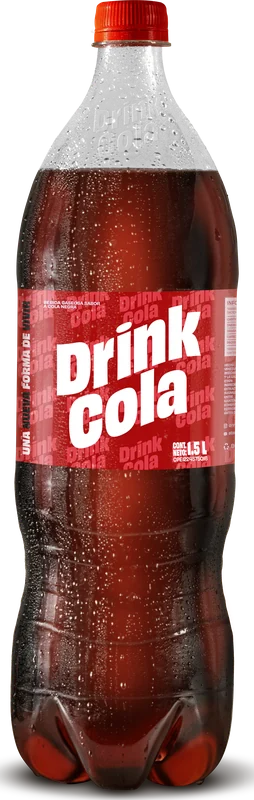
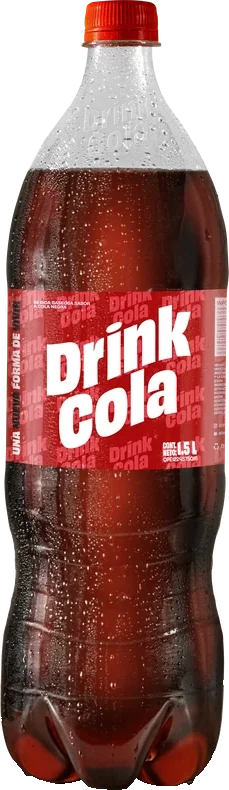
Correcciones del cliente (DWIJ-95 a DWIJ-98): sin naranja, CTA solo al formulario, botellas sin círculo y slider sin titulares de producto
- DWIJ-95: se retira el naranja de la paleta y del CSS (círculos y puntos decorativos fuera;
  asteriscos y foco en azul). La diapositiva de Frugy pasa al verde de su logo.
- DWIJ-96: el cierre de distribuidores, la diapositiva de distribuidores y la ficha de producto
  quedan sin teléfono ni botón de WhatsApp de ventas; solo el botón al formulario.
- DWIJ-97: tarjetas, ficha y galería sin círculo de color detrás de las botellas; se limpia la
  sombra pegada en la base de Frugy Mango y Drink Cola 1.5 L (quitar_sombra en el optimizador).
- DWIJ-98: Drink Cola y Frugy sin «Refresco de cola» / «Bebidas saborizadas a frutas»; el logo es
  el titular (H2 con texto alternativo) y slider.js lo usa como nombre de la diapositiva.
- Contenido versión 19.

diff --git a/wp-content/themes/industrias-jau/assets/css/tema.css b/wp-content/themes/industrias-jau/assets/css/tema.css
@@ -6,7 +6,6 @@
 
 :root {
 	--jau-primary: var(--wp--preset--color--primary);
-	--jau-accent: var(--wp--preset--color--accent);
 	--jau-ink: var(--wp--preset--color--ink);
 	--jau-ink-2: var(--wp--preset--color--ink-2);
 	--jau-muted: var(--wp--preset--color--muted);
@@ -31,7 +30,9 @@ body { overflow-x: clip; }
 @keyframes jauAIn { from { opacity: 0; transform: translateY(12px); } to { opacity: 1; transform: none; } }
 @keyframes jauAFade { from { opacity: 0; } to { opacity: 1; } }
 
-:focus-visible { outline: 2px solid var(--jau-accent); outline-offset: 2px; }
+:focus-visible { outline: 2px solid var(--jau-primary); outline-offset: 2px; }
+/* Sobre fondos de color (slider, cierre, banners, footer) el foco va en blanco. Sin naranja (DWIJ-95). */
+:is(.jau-slide, .jau-cierre, .jau-dark, .jau-banner, .jau-footer, .has-primary-background-color) :focus-visible { outline-color: #fff; }
 
 /* --------------------------------------------------------------------------
    Marcador «por confirmar» (DWIJ-1): se muestra u oculta en theme.json → custom.pc-display
@@ -435,14 +436,12 @@ header.wp-block-template-part,
 .jau-producto .wp-block-post-featured-image {
 	margin: 0;
 	aspect-ratio: 1 / 1;
-	background: radial-gradient(circle closest-side at 50% 52%, var(--jau-tinte, #EEF0F4) 0 70%, transparent 71%), var(--jau-white);
+	background: var(--jau-white);
 	border-bottom: 1px solid var(--jau-line);
 	display: grid;
 	place-items: center;
 }
 .jau-producto .wp-block-post-featured-image img { width: 100%; height: 100%; object-fit: contain; padding: 9% 0; filter: drop-shadow(0 10px 12px rgba(20, 24, 30, .18)); }
-.marca-frugy { --jau-tinte: #FDEBCB; }
-.marca-drink-cola { --jau-tinte: #F6DADA; }
 .jau-q-destacados .wp-block-post-template,
 .jau-q-relacionados .wp-block-post-template { grid-template-columns: repeat(auto-fit, minmax(min(100%, 230px), 1fr)); }
 .jau-producto .wp-block-post-featured-image a { display: block; width: 100%; height: 100%; }
@@ -510,7 +509,7 @@ header.wp-block-template-part,
 	border: 1px solid var(--jau-line);
 	border-radius: 14px;
 	overflow: hidden;
-	background: radial-gradient(circle closest-side at 50% 52%, var(--jau-tinte, #EEF0F4) 0 72%, transparent 73%), var(--jau-white);
+	background: var(--jau-white);
 }
 .jau-ficha__foto .wp-block-post-featured-image img { width: 100%; height: 100%; object-fit: contain; padding: 8% 0; filter: drop-shadow(0 16px 18px rgba(20, 24, 30, .2)); }
 .jau-ficha__info > * { margin-block: 0 !important; }
@@ -527,19 +526,6 @@ header.wp-block-template-part,
    Bloque de cierre «Quiero ser distribuidor» (DWIJ-29)
    -------------------------------------------------------------------------- */
 .jau-cierre { position: relative; overflow: hidden; border-radius: var(--jau-r-lg); }
-.jau-cierre::before {
-	content: "";
-	position: absolute;
-	right: -60px;
-	top: -60px;
-	width: 240px;
-	height: 240px;
-	border-radius: 50%;
-	background: var(--jau-accent);
-	opacity: .9;
-	pointer-events: none;
-}
-.jau-cierre > * { position: relative; }
 .jau-cierre .jau-cierre__texto { max-width: 620px; }
 .jau-cierre .jau-cierre__texto p { font-size: 17px; opacity: .92; }
 
@@ -727,7 +713,7 @@ header.wp-block-template-part,
 	.jau-contacto__cols .jau-form__campo--ancho,
 	.jau-contacto__cols .jau-form__campo--ancho textarea { flex: 1 1 auto; }
 }
-.jau-form__req { color: var(--jau-accent); }
+.jau-form__req { color: var(--jau-primary); }
 .jau-form input, .jau-form select, .jau-form textarea {
 	width: 100%;
 	font: inherit;
@@ -966,8 +952,8 @@ header.wp-block-template-part,
 /* Datos sin cargar: no se muestran (sin marcadores «por confirmar») */
 .jau-pc { display: none !important; }
 
-/* Galerías de la ficha: botellas sobre círculo de color de la marca */
-.jau-galeria-botellas figure { background: radial-gradient(circle closest-side at 50% 52%, var(--jau-tinte, #EEF0F4) 0 72%, transparent 73%), var(--jau-white); padding: 20px 0 8px; }
+/* Galerías de la ficha: botellas sobre fondo limpio (sin círculo de color, DWIJ-97) */
+.jau-galeria-botellas figure { background: var(--jau-white); padding: 20px 0 8px; }
 .jau-galeria-botellas img { max-height: 360px; width: auto !important; margin-inline: auto; filter: drop-shadow(0 14px 16px rgba(20, 24, 30, .2)); }
 .jau-galeria-botellas figcaption { position: static !important; background: none !important; color: var(--jau-ink) !important; font-weight: 600; text-align: center; padding: 8px 0 0 !important; }
 .jau-ficha__contenido .jau-fotos figure { border: 0; background: none; }
@@ -1368,15 +1354,10 @@ header.wp-block-template-part,
 /* Formularios: horario de atención bajo los campos, con ícono y en negrita. */
 .jau-form__nota { display: inline-flex; align-items: flex-start; gap: 8px; margin: 0; color: var(--jau-ink); font-size: 15px; line-height: 1.4; }
 .jau-form__nota svg { flex: none; margin-top: 1px; color: var(--jau-primary); }
-@media (max-width: 1000px) {
-	.jau-maquila-contacto__cabecera::before { width: 150px; height: 150px; right: -60px; top: -60px; }
-	.jau-maquila-contacto__cabecera > * { max-width: calc(100% - 70px); }
-}
 
 /* Inicio › JAU Maquila: escena con botellas (gaseosa y saborizada) sobre el círculo azul, las dos
    soluciones como etiquetas flotantes y las razones como lista con ✓. */
 .jau-escena--maquila { --jau-circulo: var(--jau-primary); max-width: 520px; height: clamp(380px, 36vw, 480px); }
-.jau-escena--maquila::after { content: ""; position: absolute; z-index: -1; top: 7%; right: 9%; width: 21%; aspect-ratio: 1 / 1; border-radius: 50%; background: var(--jau-accent); }
 .jau-escena--maquila .jau-botellas { height: 90%; padding-bottom: 6%; }
 .jau-escena__etiqueta {
 	position: absolute;
@@ -1412,12 +1393,11 @@ header.wp-block-template-part,
 }
 
 /* Animación de la escena de JAU Maquila (escenas.js agrega .jau-anima y, al verse, .is-visible):
-   el círculo crece, las botellas suben, el punto naranja aparece y las etiquetas entran por los
+   el círculo crece, las botellas suben y las etiquetas entran por los
    lados; después las botellas y las etiquetas flotan suavemente. */
 @media (prefers-reduced-motion: no-preference) {
 	/* Estado inicial (sin transición: se oculta al instante, sin parpadeo). */
 	.jau-escena--maquila.jau-anima::before { opacity: 0; transform: translate(-50%, -50%) scale(.8); }
-	.jau-escena--maquila.jau-anima::after { transform: scale(0); }
 	.jau-escena--maquila.jau-anima .jau-botellas > figure { opacity: 0; transform: translateY(48px); }
 	.jau-escena--maquila.jau-anima .jau-escena__etiqueta { opacity: 0; }
 	.jau-escena--maquila.jau-anima .jau-escena__etiqueta--arriba { transform: translateX(-28px); }
@@ -1425,7 +1405,6 @@ header.wp-block-template-part,
 
 	/* Entrada al verse en pantalla. */
 	.jau-escena--maquila.jau-anima.is-visible::before { opacity: 1; transform: translate(-50%, -50%) scale(1); transition: opacity .6s ease, transform .9s cubic-bezier(.2, .8, .2, 1); }
-	.jau-escena--maquila.jau-anima.is-visible::after { transform: scale(1); transition: transform .7s cubic-bezier(.34, 1.56, .64, 1) .5s; animation: jauLatir 6s ease-in-out 1.4s infinite; }
 	.jau-escena--maquila.jau-anima.is-visible .jau-botellas > figure { opacity: 1; transform: none; transition: opacity .6s ease .2s, transform .9s cubic-bezier(.2, .8, .2, 1) .2s; }
 	.jau-escena--maquila.jau-anima.is-visible .jau-botellas > figure:nth-child(2) { transition-delay: .38s; }
 	.jau-escena--maquila.jau-anima.is-visible .jau-escena__etiqueta { opacity: 1; transform: none; transition: opacity .5s ease .7s, transform .7s cubic-bezier(.2, .8, .2, 1) .7s; }
@@ -1439,7 +1418,6 @@ header.wp-block-template-part,
 }
 @keyframes jauFlotar { 0%, 100% { transform: translateY(0); } 50% { transform: translateY(-10px); } }
 @keyframes jauFlotarSuave { 0%, 100% { transform: translateY(0); } 50% { transform: translateY(-6px); } }
-@keyframes jauLatir { 0%, 100% { transform: scale(1); } 50% { transform: scale(1.08); } }
 
 /* Razones de JAU Maquila desplegables (desplegables.js agrega .es-desplegable): solo el título a la
    altura del ícono y una flecha; la descripción se abre con hover o clic. */
@@ -1527,7 +1505,6 @@ header.wp-block-template-part,
 /* «Contáctanos» de JAU Maquila en teléfonos: texto más corto y más chico (se oculta la segunda parte
    de la frase, marcada con .jau-solo-escritorio). */
 @media (max-width: 600px) {
-	.jau-maquila-contacto__cabecera::before { width: 120px; height: 120px; right: -48px; top: -52px; }
 	.jau-maquila-contacto__cabecera > p { max-width: none; font-size: 16px; line-height: 1.5; }
 	.jau-solo-escritorio { display: none; }
 }
@@ -1542,7 +1519,7 @@ header.wp-block-template-part,
 
 /* Sobre nosotros › «Nuestra historia» (DWIJ-93, texto del cliente del 25/11/2026): primer bloque, en una
    franja clara. A la izquierda el título, el origen como entrada y el resto como línea de tiempo
-   discreta (puntos azules; el de «Hoy» en naranja). A la derecha, la foto de ambiente sobre el
+   discreta (puntos azules; el de «Hoy», relleno). A la derecha, la foto de ambiente sobre el
    círculo azul de la marca con el dato «2023 · Maracaibo, Venezuela», como las escenas del sitio. */
 /* Si la página arranca con una franja de color a todo el ancho, va pegada al banner (sin la
    línea clara de 16px que queda entre ambos). */
@@ -1563,7 +1540,7 @@ header.wp-block-template-part,
 	border-radius: 50%;
 	background: #fff;
 }
-.jau-historia__linea > p:last-child::before { border-color: var(--jau-accent); background: var(--jau-accent); }
+.jau-historia__linea > p:last-child::before { background: var(--jau-primary); }
 /* Tramo de línea de cada punto al siguiente (el espacio entre párrafos es de 24px). */
 .jau-historia__linea > p:not(:last-child)::after {
 	content: "";
@@ -1574,10 +1551,9 @@ header.wp-block-template-part,
 	width: 2px;
 	background: rgba(48, 64, 110, .22);
 }
-/* Escena: foto vertical sobre el círculo azul, punto naranja y el dato flotante. */
+/* Escena: foto vertical sobre el círculo azul y el dato flotante. */
 .jau-escena--historia { --jau-circulo: var(--jau-primary); max-width: 460px; height: clamp(420px, 40vw, 540px); }
 .jau-escena--historia::before { width: min(100%, 440px); }
-.jau-escena--historia::after { content: ""; position: absolute; z-index: -1; top: 6%; right: 4%; width: 19%; aspect-ratio: 1 / 1; border-radius: 50%; background: var(--jau-accent); }
 .jau-escena--historia > figure { height: 86%; }
 .jau-escena__etiqueta.jau-historia__dato { top: 16%; left: 0; align-items: flex-start !important; padding: 14px 20px 14px 18px; }
 .jau-historia__dato p { color: var(--jau-ink-2); font-size: 14px; font-weight: 600; }
@@ -1592,3 +1568,15 @@ header.wp-block-template-part,
 	.jau-escena__etiqueta.jau-historia__dato { top: 8%; padding: 12px 16px; }
 	.jau-historia__dato .jau-historia__anio { font-size: 30px; }
 }
+
+/* Correcciones del cliente del 26/11/2026.
+   DWIJ-95: sin naranja en el sitio. La diapositiva de Frugy pasa al verde de su logo: fondo verde
+   oscuro (texto blanco legible) y círculo en el verde del logo, igual que Drink Cola con su rojo.
+   DWIJ-98: en Drink Cola y Frugy el titular es el logo (H2 con la imagen y el nombre como texto
+   alternativo), sin texto visible. */
+.jau-escena--verde { --jau-circulo: rgba(16, 163, 57, .85); }
+.jau-slide__texto h2.jau-slide__logo { font-size: 0; line-height: 0; letter-spacing: 0; }
+.jau-slide__logo img { display: block; }
+/* Sin el titular, el logo de Frugy (apaisado) crece para equilibrar la diapositiva. */
+.jau-slide__logo:not(.jau-slide__logo--alto) img { height: 84px; }
+@media (max-width: 781px) { .jau-slide__logo:not(.jau-slide__logo--alto) img { height: 58px; } }

diff --git a/wp-content/themes/industrias-jau/parts/cierre-distribuidor.html b/wp-content/themes/industrias-jau/parts/cierre-distribuidor.html
@@ -7,20 +7,12 @@
 
 <!-- wp:paragraph -->
 <p>Déjanos tus datos y el equipo de ventas te contactará con las condiciones para distribuidores.</p>
-<!-- /wp:paragraph -->
-
-<!-- wp:paragraph {"metadata":{"bindings":{"content":{"source":"jau/empresa","args":{"key":"telefono","etiqueta":"Teléfono para distribuidores","enlace":true}}}},"fontSize":"sm"} -->
-<p class="has-sm-font-size">Teléfono para distribuidores</p>
 <!-- /wp:paragraph --></div>
 <!-- /wp:group -->
 
 <!-- wp:buttons -->
 <div class="wp-block-buttons"><!-- wp:button {"className":"is-style-blanco"} -->
 <div class="wp-block-button is-style-blanco"><a class="wp-block-button__link wp-element-button" href="/contacto/#formulario">Quiero ser distribuidor</a></div>
-<!-- /wp:button -->
-
-<!-- wp:button {"className":"is-style-contorno-claro","metadata":{"bindings":{"url":{"source":"jau/empresa","args":{"key":"whatsapp_url"}}}}} -->
-<div class="wp-block-button is-style-contorno-claro"><a class="wp-block-button__link wp-element-button" href="#" target="_blank" rel="noreferrer noopener">WhatsApp de ventas</a></div>
 <!-- /wp:button --></div>
 <!-- /wp:buttons --></div>
 <!-- /wp:group --></section>

diff --git a/wp-content/themes/industrias-jau/templates/single-producto.html b/wp-content/themes/industrias-jau/templates/single-producto.html
@@ -25,10 +25,6 @@
 <!-- wp:buttons -->
 <div class="wp-block-buttons"><!-- wp:button {"className":"jau-btn-consultar","metadata":{"bindings":{"url":{"source":"jau/producto","args":{"key":"consultar_url"}}}}} -->
 <div class="wp-block-button jau-btn-consultar"><a class="wp-block-button__link wp-element-button" href="/contacto/#formulario">Consultar disponibilidad</a></div>
-<!-- /wp:button -->
-
-<!-- wp:button {"className":"is-style-contorno jau-btn-wa-producto","metadata":{"bindings":{"url":{"source":"jau/producto","args":{"key":"whatsapp_url"}}}}} -->
-<div class="wp-block-button is-style-contorno jau-btn-wa-producto"><a class="wp-block-button__link wp-element-button" href="#" target="_blank" rel="noreferrer noopener">WhatsApp de ventas</a></div>
 <!-- /wp:button --></div>
 <!-- /wp:buttons --></div>
 <!-- /wp:column --></div>

diff --git a/wp-content/themes/industrias-jau/assets/js/slider.js b/wp-content/themes/industrias-jau/assets/js/slider.js
@@ -28,8 +28,10 @@
 		}
 
 		var titulos = slides.map( function ( s, i ) {
+			// El titular puede ser el logo de la marca (DWIJ-98): entonces vale su texto alternativo.
 			var h = s.querySelector( 'h1, h2' );
-			var t = h ? h.textContent.trim() : 'Diapositiva';
+			var logo = h ? h.querySelector( 'img[alt]' ) : null;
+			var t = ( h ? h.textContent.trim() : '' ) || ( logo ? logo.alt.trim() : '' ) || 'Diapositiva';
 			s.setAttribute( 'role', 'group' );
 			s.setAttribute( 'aria-roledescription', 'diapositiva' );
 			s.setAttribute( 'aria-label', t );

diff --git a/wp-content/themes/industrias-jau/patterns/hero-slider.php b/wp-content/themes/industrias-jau/patterns/hero-slider.php
@@ -3,7 +3,7 @@
  * Title: Slider del inicio
  * Slug: industrias-jau/hero-slider
  * Categories: industrias-jau, banner
- * Description: Banner principal en 4 diapositivas: institucional, Drink Cola, Frugy y distribuidores (DWIJ-53). Cada una con su escena (círculo + botellas o foto). Solo el primer titular es H1.
+ * Description: Banner principal en 4 diapositivas: institucional, Drink Cola, Frugy y distribuidores (DWIJ-53). Cada una con su escena (círculo + botellas o foto). Solo el primer titular es H1; en Drink Cola y Frugy el titular es el logo de la marca (DWIJ-98). Frugy en el verde de su logo, sin naranja (DWIJ-95). Distribuidores solo con el botón al formulario (DWIJ-96).
  * Keywords: slider, hero, banner, carrusel
  * Viewport Width: 1440
  *
@@ -21,6 +21,30 @@ defined( 'ABSPATH' ) || exit;
  */
 $jau_botella = function ( $clave, $tipo = '' ) {
 	return jau_tema_bloque_imagen( $clave, 'jau-botella' . ( $tipo ? ' jau-botella--' . $tipo : '' ), 'full' );
+};
+
+/**
+ * Logo de la marca como titular de la diapositiva (DWIJ-98): un H2 con la imagen y el nombre de la
+ * marca como texto alternativo. Se ve solo el logo, y la diapositiva conserva su título para
+ * buscadores y lectores de pantalla.
+ *
+ * @param string $clave  Clave del adjunto.
+ * @param string $nombre Nombre de la marca (texto alternativo).
+ * @param string $clase  Clases del titular.
+ * @return string
+ */
+$jau_logo_titulo = function ( $clave, $nombre, $clase ) {
+	$img = jau_tema_img( $clave );
+	if ( ! $img['id'] ) {
+		return '';
+	}
+	return sprintf(
+		'<!-- wp:heading {"className":"%1$s"} -->' . "\n" . '<h2 class="wp-block-heading %1$s"><img class="wp-image-%2$d" src="%3$s" alt="%4$s"></h2>' . "\n" . '<!-- /wp:heading -->',
+		esc_attr( $clase ),
+		$img['id'],
+		esc_url( (string) wp_get_attachment_image_url( $img['id'], 'medium_large' ) ),
+		esc_attr( $nombre )
+	);
 };
 ?>
 <!-- wp:group {"align":"full","className":"jau-slider","layout":{"type":"default"}} -->
@@ -59,11 +83,7 @@ $jau_botella = function ( $clave, $tipo = '' ) {
 <!-- wp:cover {"dimRatio":100,"overlayColor":"drink-cola-oscuro","isUserOverlayColor":true,"isDark":true,"className":"jau-slide","layout":{"type":"constrained"}} -->
 <div class="wp-block-cover jau-slide"><span aria-hidden="true" class="wp-block-cover__background has-drink-cola-oscuro-background-color has-background-dim-100 has-background-dim"></span><div class="wp-block-cover__inner-container"><!-- wp:columns {"verticalAlignment":"center","className":"jau-slide__cols"} -->
 <div class="wp-block-columns are-vertically-aligned-center jau-slide__cols"><!-- wp:column {"verticalAlignment":"center","className":"jau-slide__texto"} -->
-<div class="wp-block-column is-vertically-aligned-center jau-slide__texto"><?php echo jau_tema_bloque_imagen( 'logo-drink-cola', 'jau-slide__logo jau-slide__logo--alto', 'medium' ); // phpcs:ignore ?>
-
-<!-- wp:heading -->
-<h2 class="wp-block-heading">Refresco de cola</h2>
-<!-- /wp:heading -->
+<div class="wp-block-column is-vertically-aligned-center jau-slide__texto"><?php echo $jau_logo_titulo( 'logo-drink-cola', 'Drink Cola', 'jau-slide__logo jau-slide__logo--alto' ); // phpcs:ignore ?>
 
 <!-- wp:paragraph -->
 <p>Bebida gaseosa de cola negra · 400 mL, 1.5 L y 2 L</p>
@@ -86,29 +106,25 @@ $jau_botella = function ( $clave, $tipo = '' ) {
 <!-- /wp:columns --></div></div>
 <!-- /wp:cover -->
 
-<!-- wp:cover {"dimRatio":100,"overlayColor":"frugy","isUserOverlayColor":true,"isDark":false,"className":"jau-slide","layout":{"type":"constrained"}} -->
-<div class="wp-block-cover is-light jau-slide"><span aria-hidden="true" class="wp-block-cover__background has-frugy-background-color has-background-dim-100 has-background-dim"></span><div class="wp-block-cover__inner-container"><!-- wp:columns {"verticalAlignment":"center","className":"jau-slide__cols"} -->
+<!-- wp:cover {"dimRatio":100,"overlayColor":"frugy-oscuro","isUserOverlayColor":true,"isDark":true,"className":"jau-slide","layout":{"type":"constrained"}} -->
+<div class="wp-block-cover jau-slide"><span aria-hidden="true" class="wp-block-cover__background has-frugy-oscuro-background-color has-background-dim-100 has-background-dim"></span><div class="wp-block-cover__inner-container"><!-- wp:columns {"verticalAlignment":"center","className":"jau-slide__cols"} -->
 <div class="wp-block-columns are-vertically-aligned-center jau-slide__cols"><!-- wp:column {"verticalAlignment":"center","className":"jau-slide__texto"} -->
-<div class="wp-block-column is-vertically-aligned-center jau-slide__texto"><?php echo jau_tema_bloque_imagen( 'logo-frugy-verde-blanco', 'jau-slide__logo', 'medium' ); // phpcs:ignore ?>
-
-<!-- wp:heading -->
-<h2 class="wp-block-heading">Bebidas saborizadas a frutas</h2>
-<!-- /wp:heading -->
+<div class="wp-block-column is-vertically-aligned-center jau-slide__texto"><?php echo $jau_logo_titulo( 'logo-frugy-verde-blanco', 'Frugy', 'jau-slide__logo' ); // phpcs:ignore ?>
 
 <!-- wp:paragraph -->
 <p>7 sabores: manzana, naranja, pera, durazno, mango, limón-coco y piña colada · 250 mL, 500 mL y 1.5 L</p>
 <!-- /wp:paragraph -->
 
 <!-- wp:buttons -->
-<div class="wp-block-buttons"><!-- wp:button {"className":"jau-btn-flecha","backgroundColor":"ink","textColor":"white"} -->
-<div class="wp-block-button jau-btn-flecha"><a class="wp-block-button__link has-white-color has-ink-background-color has-text-color has-background wp-element-button" href="/productos/?marca=frugy">Ver sabores</a></div>
+<div class="wp-block-buttons"><!-- wp:button {"className":"is-style-blanco jau-btn-flecha"} -->
+<div class="wp-block-button is-style-blanco jau-btn-flecha"><a class="wp-block-button__link wp-element-button" href="/productos/?marca=frugy">Ver sabores</a></div>
 <!-- /wp:button --></div>
 <!-- /wp:buttons --></div>
 <!-- /wp:column -->
 
 <!-- wp:column {"verticalAlignment":"center","className":"jau-slide__visual"} -->
-<div class="wp-block-column is-vertically-aligned-center jau-slide__visual"><!-- wp:group {"className":"jau-escena jau-escena--claro","layout":{"type":"default"}} -->
-<div class="wp-block-group jau-escena jau-escena--claro"><!-- wp:group {"className":"jau-botellas","layout":{"type":"default"}} -->
+<div class="wp-block-column is-vertically-aligned-center jau-slide__visual"><!-- wp:group {"className":"jau-escena jau-escena--verde","layout":{"type":"default"}} -->
+<div class="wp-block-group jau-escena jau-escena--verde"><!-- wp:group {"className":"jau-botellas","layout":{"type":"default"}} -->
 <div class="wp-block-group jau-botellas"><?php echo $jau_botella( 'frugy-pera-botella' ) . "\n\n" . $jau_botella( 'frugy-durazno-botella', 'media' ) . "\n\n" . $jau_botella( 'frugy-limon-coco-botella', 'centro' ) . "\n\n" . $jau_botella( 'frugy-naranja-botella', 'media' ) . "\n\n" . $jau_botella( 'frugy-manzana-botella' ); // phpcs:ignore ?></div>
 <!-- /wp:group --></div>
 <!-- /wp:group --></div>
@@ -130,10 +146,6 @@ $jau_botella = function ( $clave, $tipo = '' ) {
 <!-- wp:buttons -->
 <div class="wp-block-buttons"><!-- wp:button {"className":"is-style-blanco jau-btn-flecha"} -->
 <div class="wp-block-button is-style-blanco jau-btn-flecha"><a class="wp-block-button__link wp-element-button" href="/contacto/#formulario">Quiero ser distribuidor</a></div>
-<!-- /wp:button -->
-
-<!-- wp:button {"className":"is-style-whatsapp","metadata":{"bindings":{"url":{"source":"jau/empresa","args":{"key":"whatsapp_url"}}}}} -->
-<div class="wp-block-button is-style-whatsapp"><a class="wp-block-button__link wp-element-button" href="#" target="_blank" rel="noreferrer noopener">Escríbenos por WhatsApp</a></div>
 <!-- /wp:button --></div>
 <!-- /wp:buttons --></div>
 <!-- /wp:column -->

diff --git a/herramientas/optimizar-imagenes.py b/herramientas/optimizar-imagenes.py
@@ -108,6 +108,26 @@ def guardar_webp(img: Image.Image, destino: Path, limite: int, calidad: int = 86
     return len(datos)
 
 
+def quitar_sombra(img: Image.Image) -> Image.Image:
+    """Botellas: borra la sombra que algunas fotos traen pegada bajo la base (DWIJ-97).
+
+    Sin el círculo de color detrás, esa sombra se ve como un fondo gris cortado en la base
+    (p. ej. Frugy Mango). En el 15 % inferior de la silueta se vuelven transparentes los
+    píxeles semitransparentes oscuros y sin color (la sombra); la botella, opaca o de color,
+    no se toca. La sombra la pone el CSS, igual para todas.
+    """
+    caja = img.getchannel("A").point(lambda v: 255 if v > 40 else 0).getbbox()
+    if not caja:
+        return img
+    px = img.load()
+    for y in range(caja[3] - round((caja[3] - caja[1]) * 0.15), img.height):
+        for x in range(img.width):
+            r, g, b, a = px[x, y]
+            if 0 < a < 250 and max(r, g, b) < 72 and max(r, g, b) - min(r, g, b) < 40:
+                px[x, y] = (r, g, b, 0)
+    return img
+
+
 def procesar(ruta: Path) -> dict | None:
     try:
         img = Image.open(ruta)
@@ -126,6 +146,8 @@ def procesar(ruta: Path) -> dict | None:
         limite = LIMITE_AMBIENTE
     else:
         img = img.convert("RGBA")
+        if tipo == "botella":
+            img = quitar_sombra(img)
         # Recorte por la silueta real: se ignoran halos y sombras casi transparentes (alfa <= 40),
         # que agrandan la caja y separan las botellas en las composiciones.
         caja = img.getchannel("A").point(lambda v: 255 if v > 40 else 0).getbbox()
